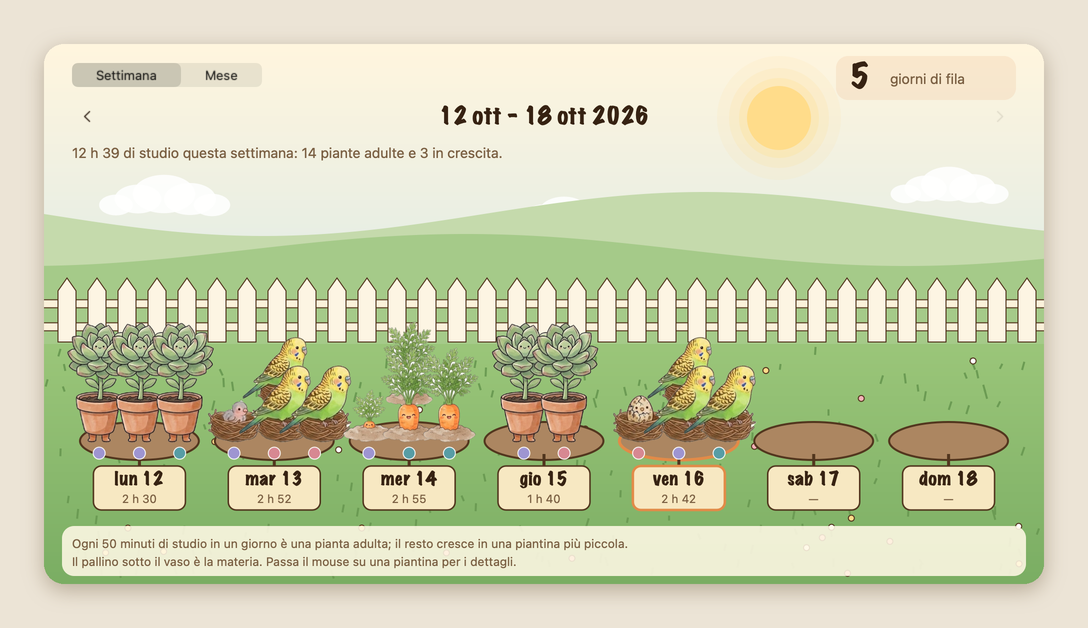
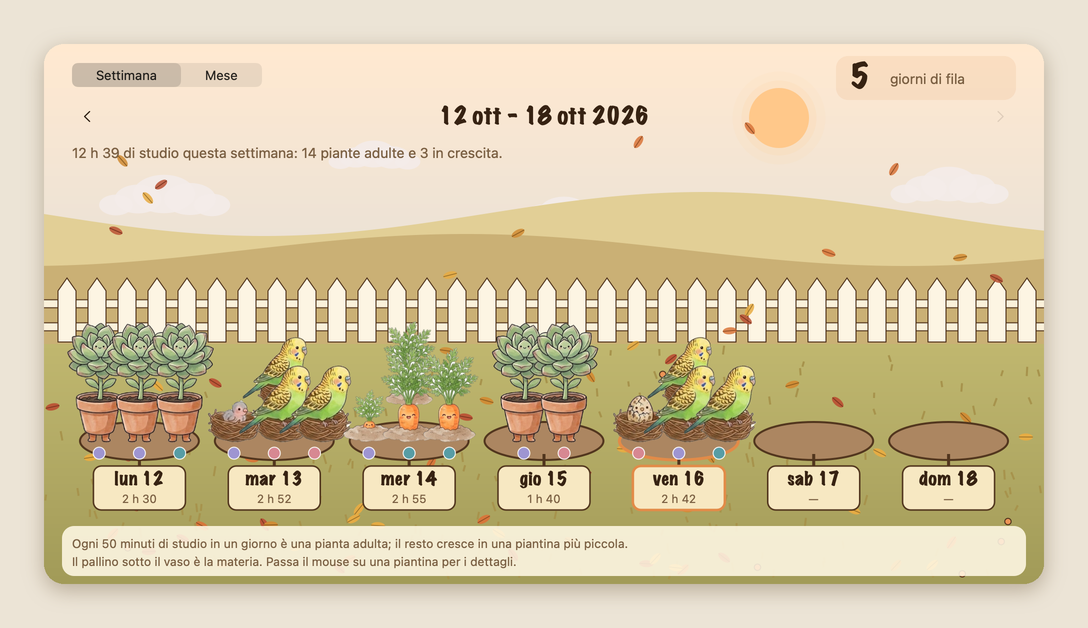
Le stagioni nel prato: primavera, estate, autunno e inverno
- la stagione segue la data del periodo che guardi (si torna indietro con le frecce)
- primavera: fiorellini; estate: sole grande e girasoli; autunno: foglie e toni dorati; inverno: neve e fiocchi
- Season in SessionLog.swift, con prove
- immagine delle quattro stagioni nel README

diff --git a/Sources/FocusFriends/GardenWindow.swift b/Sources/FocusFriends/GardenWindow.swift
@@ -297,41 +297,85 @@ final class GardenView: NSView, NSViewToolTipOwner {
         mutating func range(_ a: CGFloat, _ b: CGFloat) -> CGFloat { a + (b - a) * next() }
     }
 
-    private static var sceneCache: [PeriodKind: NSImage] = [:]
+    private static var sceneCache: [String: NSImage] = [:]
 
-    /// Il prato: cielo, sole e nuvole, colline, una staccionata e l'erba. Nel mese la scena è più bassa (il resto è
-    /// il calendario sul prato).
-    static func scene(for kind: PeriodKind) -> NSImage {
-        if let cached = sceneCache[kind] { return cached }
+    /// Il prato della stagione: cielo, sole e nuvole, colline, una staccionata e l'erba. Nel mese la scena è più
+    /// bassa (il resto è il calendario sul prato). Si disegna una volta per tipo e stagione.
+    static func scene(for kind: PeriodKind, season: Season) -> NSImage {
+        let key = "\(kind.rawValue)-\(season.rawValue)"
+        if let cached = sceneCache[key] { return cached }
         let image = NSImage(size: size, flipped: true) { rect in
-            drawScene(kind: kind, in: rect)
+            drawScene(kind: kind, season: season, in: rect)
             return true
         }
-        sceneCache[kind] = image
+        sceneCache[key] = image
         return image
     }
+
+    private typealias RGB = (CGFloat, CGFloat, CGFloat)
 
     private static func rgb(_ r: CGFloat, _ g: CGFloat, _ b: CGFloat, _ a: CGFloat = 1) -> NSColor {
         NSColor(calibratedRed: r / 255, green: g / 255, blue: b / 255, alpha: a)
     }
 
-    private static func lerp(_ a: (CGFloat, CGFloat, CGFloat), _ b: (CGFloat, CGFloat, CGFloat), _ t: CGFloat) -> NSColor {
+    private static func lerp(_ a: RGB, _ b: RGB, _ t: CGFloat) -> NSColor {
         rgb(a.0 + (b.0 - a.0) * t, a.1 + (b.1 - a.1) * t, a.2 + (b.2 - a.2) * t)
     }
 
-    private static func drawScene(kind: PeriodKind, in rect: NSRect) {
+    /// I colori e gli elementi di ogni stagione.
+    private struct SeasonStyle {
+        var skyTop: RGB, skyBottom: RGB
+        var sun: RGB, sunRadius: CGFloat, sunGlow: CGFloat
+        var cloud: RGB, cloudCount: Int
+        var farHill: RGB, nearHill: RGB
+        var lawnTop: RGB, lawnBottom: RGB
+        var blade: RGB
+        var flowers: [RGB], flowerCount: Int, flowerRadius: CGFloat
+        var leaves: Int
+        var snow: Bool
+    }
+
+    private static func style(for season: Season) -> SeasonStyle {
+        switch season {
+        case .spring:
+            return SeasonStyle(skyTop: (252, 244, 220), skyBottom: (200, 232, 228), sun: (255, 220, 130), sunRadius: 32, sunGlow: 1,
+                               cloud: (255, 255, 255), cloudCount: 3, farHill: (186, 214, 158), nearHill: (150, 196, 120),
+                               lawnTop: (140, 192, 104), lawnBottom: (104, 162, 82), blade: (90, 142, 68),
+                               flowers: [(255, 255, 255), (250, 190, 205), (255, 224, 130), (206, 190, 240)], flowerCount: 48,
+                               flowerRadius: 3.4, leaves: 0, snow: false)
+        case .summer:
+            return SeasonStyle(skyTop: (255, 238, 196), skyBottom: (170, 214, 240), sun: (255, 206, 90), sunRadius: 36, sunGlow: 1.15,
+                               cloud: (255, 255, 255), cloudCount: 2, farHill: (176, 210, 124), nearHill: (136, 188, 88),
+                               lawnTop: (122, 182, 74), lawnBottom: (90, 150, 58), blade: (68, 128, 50),
+                               flowers: [(255, 214, 80), (255, 168, 70), (240, 110, 100), (255, 255, 255)], flowerCount: 34,
+                               flowerRadius: 4.6, leaves: 0, snow: false)
+        case .autumn:
+            return SeasonStyle(skyTop: (255, 228, 198), skyBottom: (216, 214, 208), sun: (255, 188, 120), sunRadius: 30, sunGlow: 0.8,
+                               cloud: (240, 230, 228), cloudCount: 4, farHill: (218, 198, 132), nearHill: (190, 162, 98),
+                               lawnTop: (178, 170, 92), lawnBottom: (144, 138, 70), blade: (150, 130, 60),
+                               flowers: [(230, 130, 70), (210, 90, 60)], flowerCount: 8, flowerRadius: 3.2, leaves: 90, snow: false)
+        case .winter:
+            return SeasonStyle(skyTop: (238, 240, 246), skyBottom: (206, 220, 232), sun: (255, 255, 255), sunRadius: 26, sunGlow: 0.5,
+                               cloud: (252, 252, 255), cloudCount: 4, farHill: (226, 234, 244), nearHill: (206, 218, 232),
+                               lawnTop: (234, 240, 238), lawnBottom: (204, 218, 214), blade: (150, 176, 168),
+                               flowers: [], flowerCount: 0, flowerRadius: 3, leaves: 0, snow: true)
+        }
+    }
+
+    private static func drawScene(kind: PeriodKind, season: Season, in rect: NSRect) {
         let w = rect.width, h = rect.height
         let isWeek = kind != .month
+        let st = style(for: season)
         // Dove finisce il cielo e comincia il prato.
         let lawnTop: CGFloat = isWeek ? 300 : 140
         let ink = rgb(64, 40, 22)
-        var rng = SeededRandom(state: 20261012)
+        var rng = SeededRandom(state: 20261012 &+ UInt64(season.hashValueStable))
 
-        // Il cielo: crema in alto, azzurro pallido verso l'orizzonte.
+        // Il cielo
         let skyHeight = lawnTop + 20
         var y: CGFloat = 0
         while y < skyHeight {
-            lerp((255, 243, 214), (207, 229, 226), y / skyHeight).setFill()
+            lerp(st.skyTop, st.skyBottom, y / skyHeight).setFill()
             NSRect(x: 0, y: y, width: w, height: 4).fill()
             y += 4
         }
@@ -339,14 +383,17 @@ final class GardenView: NSView, NSViewToolTipOwner {
         // Il sole (con un alone) e le nuvole
         let sun = NSPoint(x: isWeek ? 735 : 690, y: isWeek ? 74 : 40)
         for (r, a) in [(62, 0.10), (50, 0.16), (40, 0.28)] as [(CGFloat, CGFloat)] {
-            rgb(255, 214, 120, a).setFill()
-            NSBezierPath(ovalIn: NSRect(x: sun.x - r, y: sun.y - r, width: 2 * r, height: 2 * r)).fill()
+            let grown = r * st.sunGlow * (st.sunRadius / 32)
+            rgb(st.sun.0, st.sun.1, st.sun.2, a * min(st.sunGlow, 1.4)).setFill()
+            NSBezierPath(ovalIn: NSRect(x: sun.x - grown, y: sun.y - grown, width: 2 * grown, height: 2 * grown)).fill()
         }
-        rgb(255, 214, 120).setFill()
-        NSBezierPath(ovalIn: NSRect(x: sun.x - 32, y: sun.y - 32, width: 64, height: 64)).fill()
-        let clouds: [(CGFloat, CGFloat, CGFloat)] = isWeek ? [(120, 150, 1.0), (520, 168, 0.8), (905, 140, 0.9)] : [(110, 110, 0.7), (560, 118, 0.6)]
-        for (cx, cy, scale) in clouds {
-            rgb(255, 255, 255, 0.85).setFill()
+        rgb(st.sun.0, st.sun.1, st.sun.2, season == .winter ? 0.7 : 1).setFill()
+        NSBezierPath(ovalIn: NSRect(x: sun.x - st.sunRadius, y: sun.y - st.sunRadius, width: 2 * st.sunRadius, height: 2 * st.sunRadius)).fill()
+        let allClouds: [(CGFloat, CGFloat, CGFloat)] = isWeek
+            ? [(120, 150, 1.0), (520, 168, 0.8), (905, 140, 0.9), (330, 110, 0.7)]
+            : [(110, 110, 0.7), (560, 118, 0.6), (340, 92, 0.55), (900, 120, 0.6)]
+        for (cx, cy, scale) in allClouds.prefix(st.cloudCount) {
+            rgb(st.cloud.0, st.cloud.1, st.cloud.2, 0.88).setFill()
             for (dx, dy, r) in [(0, 0, 24), (26, 5, 20), (-26, 5, 18), (48, 11, 14), (-48, 11, 13)] as [(CGFloat, CGFloat, CGFloat)] {
                 NSBezierPath(ovalIn: NSRect(x: cx + dx * scale - r * scale * 1.3, y: cy + dy * scale - r * scale * 0.8,
                                             width: 2.6 * r * scale, height: 1.6 * r * scale)).fill()
@@ -367,8 +414,8 @@ final class GardenView: NSView, NSViewToolTipOwner {
             color.setFill()
             path.fill()
         }
-        hill(base: lawnTop - 130 + (isWeek ? 0 : 60), amp: isWeek ? 22 : 12, phase: 0, color: rgb(185, 212, 156))
-        hill(base: lawnTop - 94 + (isWeek ? 0 : 42), amp: isWeek ? 16 : 9, phase: 1.7, color: rgb(150, 193, 118))
+        hill(base: lawnTop - 130 + (isWeek ? 0 : 60), amp: isWeek ? 22 : 12, phase: 0, color: rgb(st.farHill.0, st.farHill.1, st.farHill.2))
+        hill(base: lawnTop - 94 + (isWeek ? 0 : 42), amp: isWeek ? 16 : 9, phase: 1.7, color: rgb(st.nearHill.0, st.nearHill.1, st.nearHill.2))
 
         // La staccionata (nel mese è bassa: sopra c'è il riepilogo, sotto il calendario)
         let fenceHeight: CGFloat = isWeek ? 64 : 18
@@ -397,18 +444,28 @@ final class GardenView: NSView, NSViewToolTipOwner {
             picket.fill()
             picket.lineWidth = 1
             picket.stroke()
+            if st.snow {
+                // Un cappuccio di neve su ogni paletto
+                let cap = NSBezierPath(roundedRect: NSRect(x: x - 1, y: fenceTop - 3, width: picketWidth + 2, height: isWeek ? 9 : 5),
+                                       xRadius: 3, yRadius: 3)
+                rgb(255, 255, 255).setFill()
+                cap.fill()
+                rgb(150, 170, 190).setStroke()
+                cap.lineWidth = 1
+                cap.stroke()
+            }
             x += picketStep
         }
 
         // Il prato
         var ly = lawnTop
         while ly < h {
-            lerp((138, 188, 102), (104, 160, 80), (ly - lawnTop) / (h - lawnTop)).setFill()
+            lerp(st.lawnTop, st.lawnBottom, (ly - lawnTop) / (h - lawnTop)).setFill()
             NSRect(x: 0, y: ly, width: w, height: 4).fill()
             ly += 4
         }
-        rgb(90, 140, 66).setStroke()
-        for _ in 0..<220 {
+        rgb(st.blade.0, st.blade.1, st.blade.2).setStroke()
+        for _ in 0..<(season == .winter ? 120 : 220) {
             let gx = rng.range(0, w), gy = rng.range(lawnTop + 10, h - 4)
             let blade = NSBezierPath()
             blade.move(to: NSPoint(x: gx, y: gy))
@@ -416,16 +473,70 @@ final class GardenView: NSView, NSViewToolTipOwner {
             blade.lineWidth = 2
             blade.stroke()
         }
-        let flowerColors = [rgb(255, 255, 255), rgb(255, 214, 120), rgb(240, 160, 170)]
-        for i in 0..<(isWeek ? 34 : 18) {
+        if st.snow {
+            // Chiazze di neve sul prato
+            rgb(255, 255, 255, 0.85).setFill()
+            for _ in 0..<26 {
+                let sx = rng.range(0, w), sy = rng.range(lawnTop + 14, h - 10)
+                NSBezierPath(ovalIn: NSRect(x: sx - rng.range(14, 30), y: sy - 4, width: rng.range(28, 60), height: rng.range(8, 14))).fill()
+            }
+        }
+
+        // Fiori
+        let flowerCount = isWeek ? st.flowerCount : st.flowerCount / 2
+        for i in 0..<flowerCount {
             let fx = rng.range(10, w - 10), fy = rng.range(lawnTop + 16, h - 10)
-            let petal = flowerColors[i % flowerColors.count]
-            petal.setFill()
-            let dot = NSBezierPath(ovalIn: NSRect(x: fx - 3, y: fy - 3, width: 6, height: 6))
-            dot.fill()
-            ink.setStroke()
-            dot.lineWidth = 1
-            dot.stroke()
+            let c = st.flowers[i % st.flowers.count]
+            let r = st.flowerRadius
+            if season == .summer {
+                // Girasoli: petali gialli e cuore scuro
+                rgb(c.0, c.1, c.2).setFill()
+                NSBezierPath(ovalIn: NSRect(x: fx - r, y: fy - r, width: 2 * r, height: 2 * r)).fill()
+                rgb(110, 70, 36).setFill()
+                NSBezierPath(ovalIn: NSRect(x: fx - r * 0.45, y: fy - r * 0.45, width: r * 0.9, height: r * 0.9)).fill()
+            } else {
+                rgb(c.0, c.1, c.2).setFill()
+                let dot = NSBezierPath(ovalIn: NSRect(x: fx - r, y: fy - r, width: 2 * r, height: 2 * r))
+                dot.fill()
+                ink.setStroke()
+                dot.lineWidth = 1
+                dot.stroke()
+            }
+        }
+
+        // Foglie d'autunno: sul prato e in aria
+        if st.leaves > 0 {
+            let colors: [RGB] = [(205, 96, 44), (224, 156, 52), (170, 62, 40), (196, 120, 40)]
+            for i in 0..<st.leaves {
+                let inAir = i % 5 == 0
+                let lx = rng.range(8, w - 8)
+                let ly = inAir ? rng.range(60, lawnTop + 10) : rng.range(lawnTop + 14, h - 10)
+                let c = colors[i % colors.count]
+                NSGraphicsContext.saveGraphicsState()
+                let t = NSAffineTransform()
+                t.translateX(by: lx, yBy: ly)
+                t.rotate(byDegrees: rng.range(-60, 60))
+                t.concat()
+                rgb(c.0, c.1, c.2, inAir ? 0.85 : 0.95).setFill()
+                NSBezierPath(ovalIn: NSRect(x: -7, y: -3.5, width: 14, height: 7)).fill()
+                rgb(c.0 * 0.6, c.1 * 0.6, c.2 * 0.6).setStroke()
+                let vein = NSBezierPath()
+                vein.move(to: NSPoint(x: -7, y: 0))
+                vein.line(to: NSPoint(x: 7, y: 0))
+                vein.lineWidth = 0.8
+                vein.stroke()
+                NSGraphicsContext.restoreGraphicsState()
+            }
+        }
+
+        // Fiocchi di neve
+        if st.snow {
+            rgb(255, 255, 255, 0.95).setFill()
+            for _ in 0..<(isWeek ? 90 : 60) {
+                let fx = rng.range(0, w), fy = rng.range(0, h)
+                let r = rng.range(1.4, 3.2)
+                NSBezierPath(ovalIn: NSRect(x: fx - r, y: fy - r, width: 2 * r, height: 2 * r)).fill()
+            }
         }
     }
 
@@ -439,7 +550,8 @@ final class GardenView: NSView, NSViewToolTipOwner {
     }
 
     override func draw(_ dirtyRect: NSRect) {
-        Self.scene(for: kind).draw(in: bounds)
+        let anchorDate = calendar.date(byAdding: .day, value: kind == .week ? 3 : 14, to: period.start) ?? period.start
+        Self.scene(for: kind, season: Season.of(anchorDate, calendar: calendar)).draw(in: bounds)
         let width = Self.size.width
         let m = Self.margin
 
@@ -600,5 +712,17 @@ final class GardenController {
         view?.select(.week)
         NSApp.activate(ignoringOtherApps: true)
         window?.makeKeyAndOrderFront(nil)
+    }
+}
+
+private extension Season {
+    /// Un numero fisso per stagione (hashValue cambia a ogni avvio): serve a variare erba e fiori.
+    var hashValueStable: Int {
+        switch self {
+        case .spring: return 1
+        case .summer: return 2
+        case .autumn: return 3
+        case .winter: return 4
+        }
     }
 }

diff --git a/tests/main.swift b/tests/main.swift
@@ -476,5 +476,13 @@ check(TimerDialMath.minutes(fraction: 0.5, previous: 5, maxMinutes: 30, step: 1)
 check(TimerDialMath.filledFraction(minutes: 60, maxMinutes: 120) == 0.5, "parte colorata")
 check(TimerDialMath.filledFraction(minutes: 150, maxMinutes: 120) == 1, "al massimo un giro")
 
+// ---------------------------------------------------------------- stagioni
+section("Stagioni")
+check(Season.of(date(2026, 3, 1), calendar: cal) == .spring && Season.of(date(2026, 5, 31), calendar: cal) == .spring, "marzo-maggio: primavera")
+check(Season.of(date(2026, 6, 1), calendar: cal) == .summer && Season.of(date(2026, 8, 31), calendar: cal) == .summer, "giugno-agosto: estate")
+check(Season.of(date(2026, 9, 1), calendar: cal) == .autumn && Season.of(date(2026, 11, 30), calendar: cal) == .autumn, "settembre-novembre: autunno")
+check(Season.of(date(2026, 12, 1), calendar: cal) == .winter && Season.of(date(2027, 2, 28), calendar: cal) == .winter, "dicembre-febbraio: inverno")
+check(Season.allCases.count == 4 && Season.winter.title == "Inverno", "quattro stagioni, con il nome")
+
 print("\n\(checks) controlli, \(failures) falliti")
 exit(failures == 0 ? 0 : 1)

diff --git a/Sources/FocusFriends/SessionLog.swift b/Sources/FocusFriends/SessionLog.swift
@@ -173,6 +173,29 @@ enum GardenRules {
     }
 }
 
+/// La stagione di una data (meteorologica, emisfero nord): cambia l'aspetto del prato del giardino.
+enum Season: String, CaseIterable {
+    case spring, summer, autumn, winter
+
+    static func of(_ date: Date, calendar: Calendar = StudyPeriod.calendar()) -> Season {
+        switch calendar.component(.month, from: date) {
+        case 3...5: return .spring
+        case 6...8: return .summer
+        case 9...11: return .autumn
+        default: return .winter
+        }
+    }
+
+    var title: String {
+        switch self {
+        case .spring: return "Primavera"
+        case .summer: return "Estate"
+        case .autumn: return "Autunno"
+        case .winter: return "Inverno"
+        }
+    }
+}
+
 /// "Com'è andata?": tre livelli, abbastanza per vedere i modelli senza dover pensare.
 enum FocusRating: String, Codable, CaseIterable {
     case good, soso, poor

diff --git a/README.md b/README.md
@@ -243,7 +243,17 @@ minuti). I minuti riempiono una pianta dopo l'altra nell'ordine in cui li hai st
 pianta (il pallino sotto il vaso) è quella che l'ha fatta crescere di più, e anche il personaggio è quello con cui
 l'hai fatta di più. Il giardino è un prato con il cielo, il sole, le colline e una staccionata: la scheda *Settimana* ha un monticello
 di terra per giorno, con il suo cartello di legno (giorno e ore), fino a sei piantine, poi "+N"; quella che cresce sta
-davanti; *Mese* è lo stesso prato con le caselle del calendario. Passando il mouse su una piantina compaiono il
+davanti; *Mese* è lo stesso prato con le caselle del calendario.
+
+Il prato **cambia con le stagioni**, secondo la data del periodo che guardi (primavera da marzo a maggio, estate da
+giugno ad agosto, autunno da settembre a novembre, inverno da dicembre a febbraio): in primavera è fresco e pieno di
+fiorellini, d'estate più verde, con il cielo azzurro e un sole grande; d'autunno ha le foglie che cadono e i toni
+dorati; d'inverno c'è la neve sul prato e sulla staccionata, e cadono i fiocchi. Tornando indietro con le frecce
+si rivede la stagione di quel periodo.
+
+<p align="center">
+  <img src="docs/images/giardino-stagioni.png" width="720" alt="Il giardino nelle quattro stagioni">
+</p> Passando il mouse su una piantina compaiono il
 giorno, i minuti e le materie. Si ricava tutto dal registro: compare subito anche per i focus già fatti. A fine
 focus il personaggio dice se è nata una pianta adulta o quanti minuti mancano alla prossima.
 
